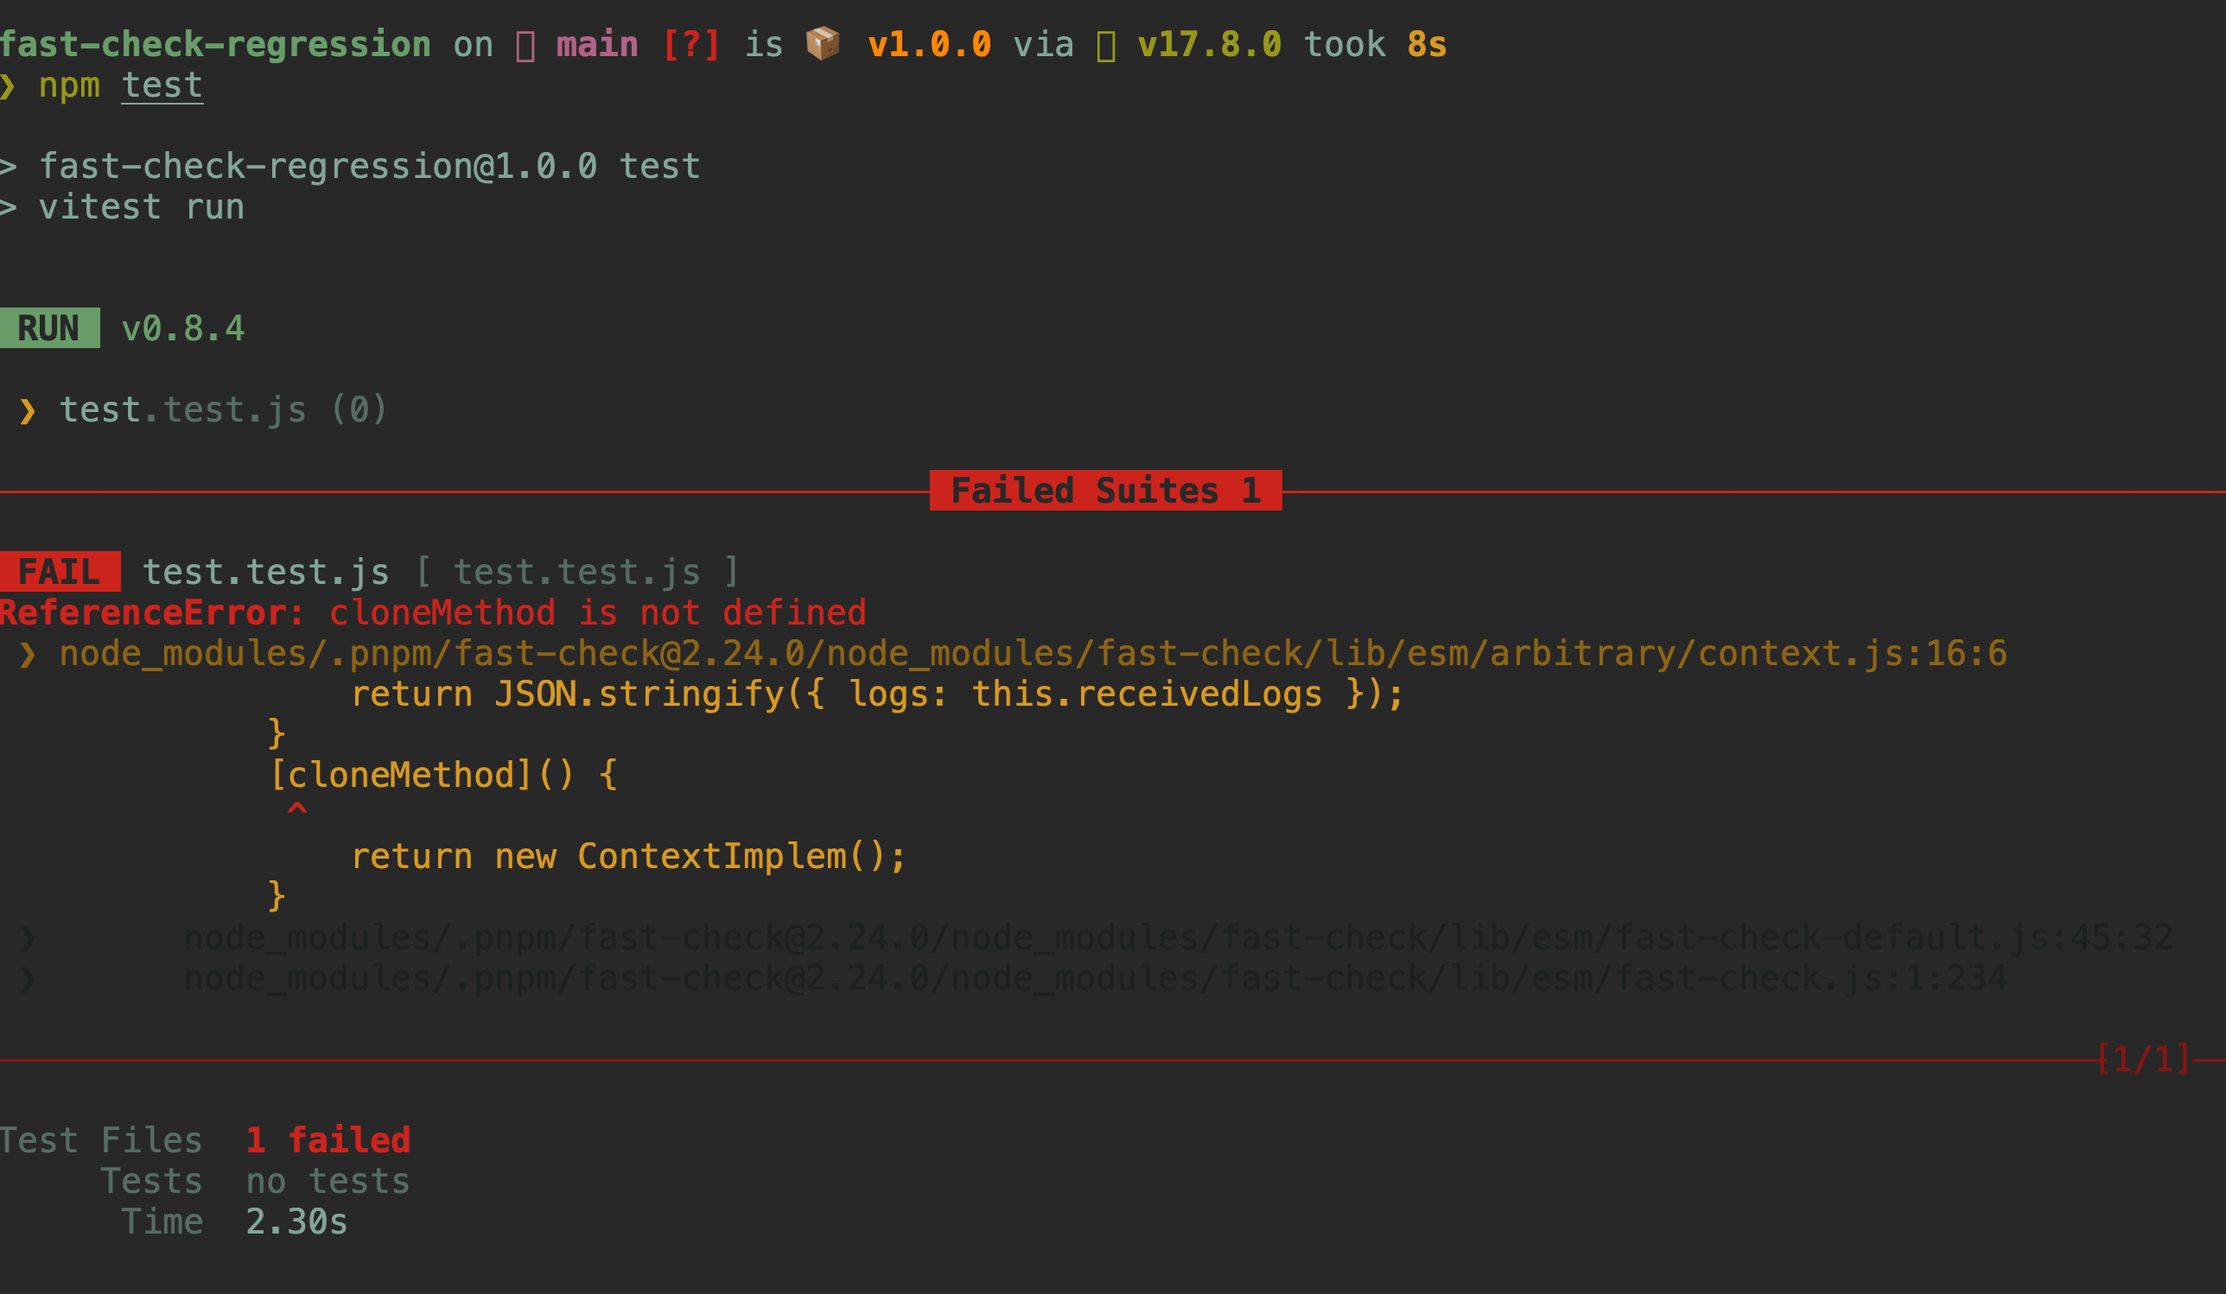
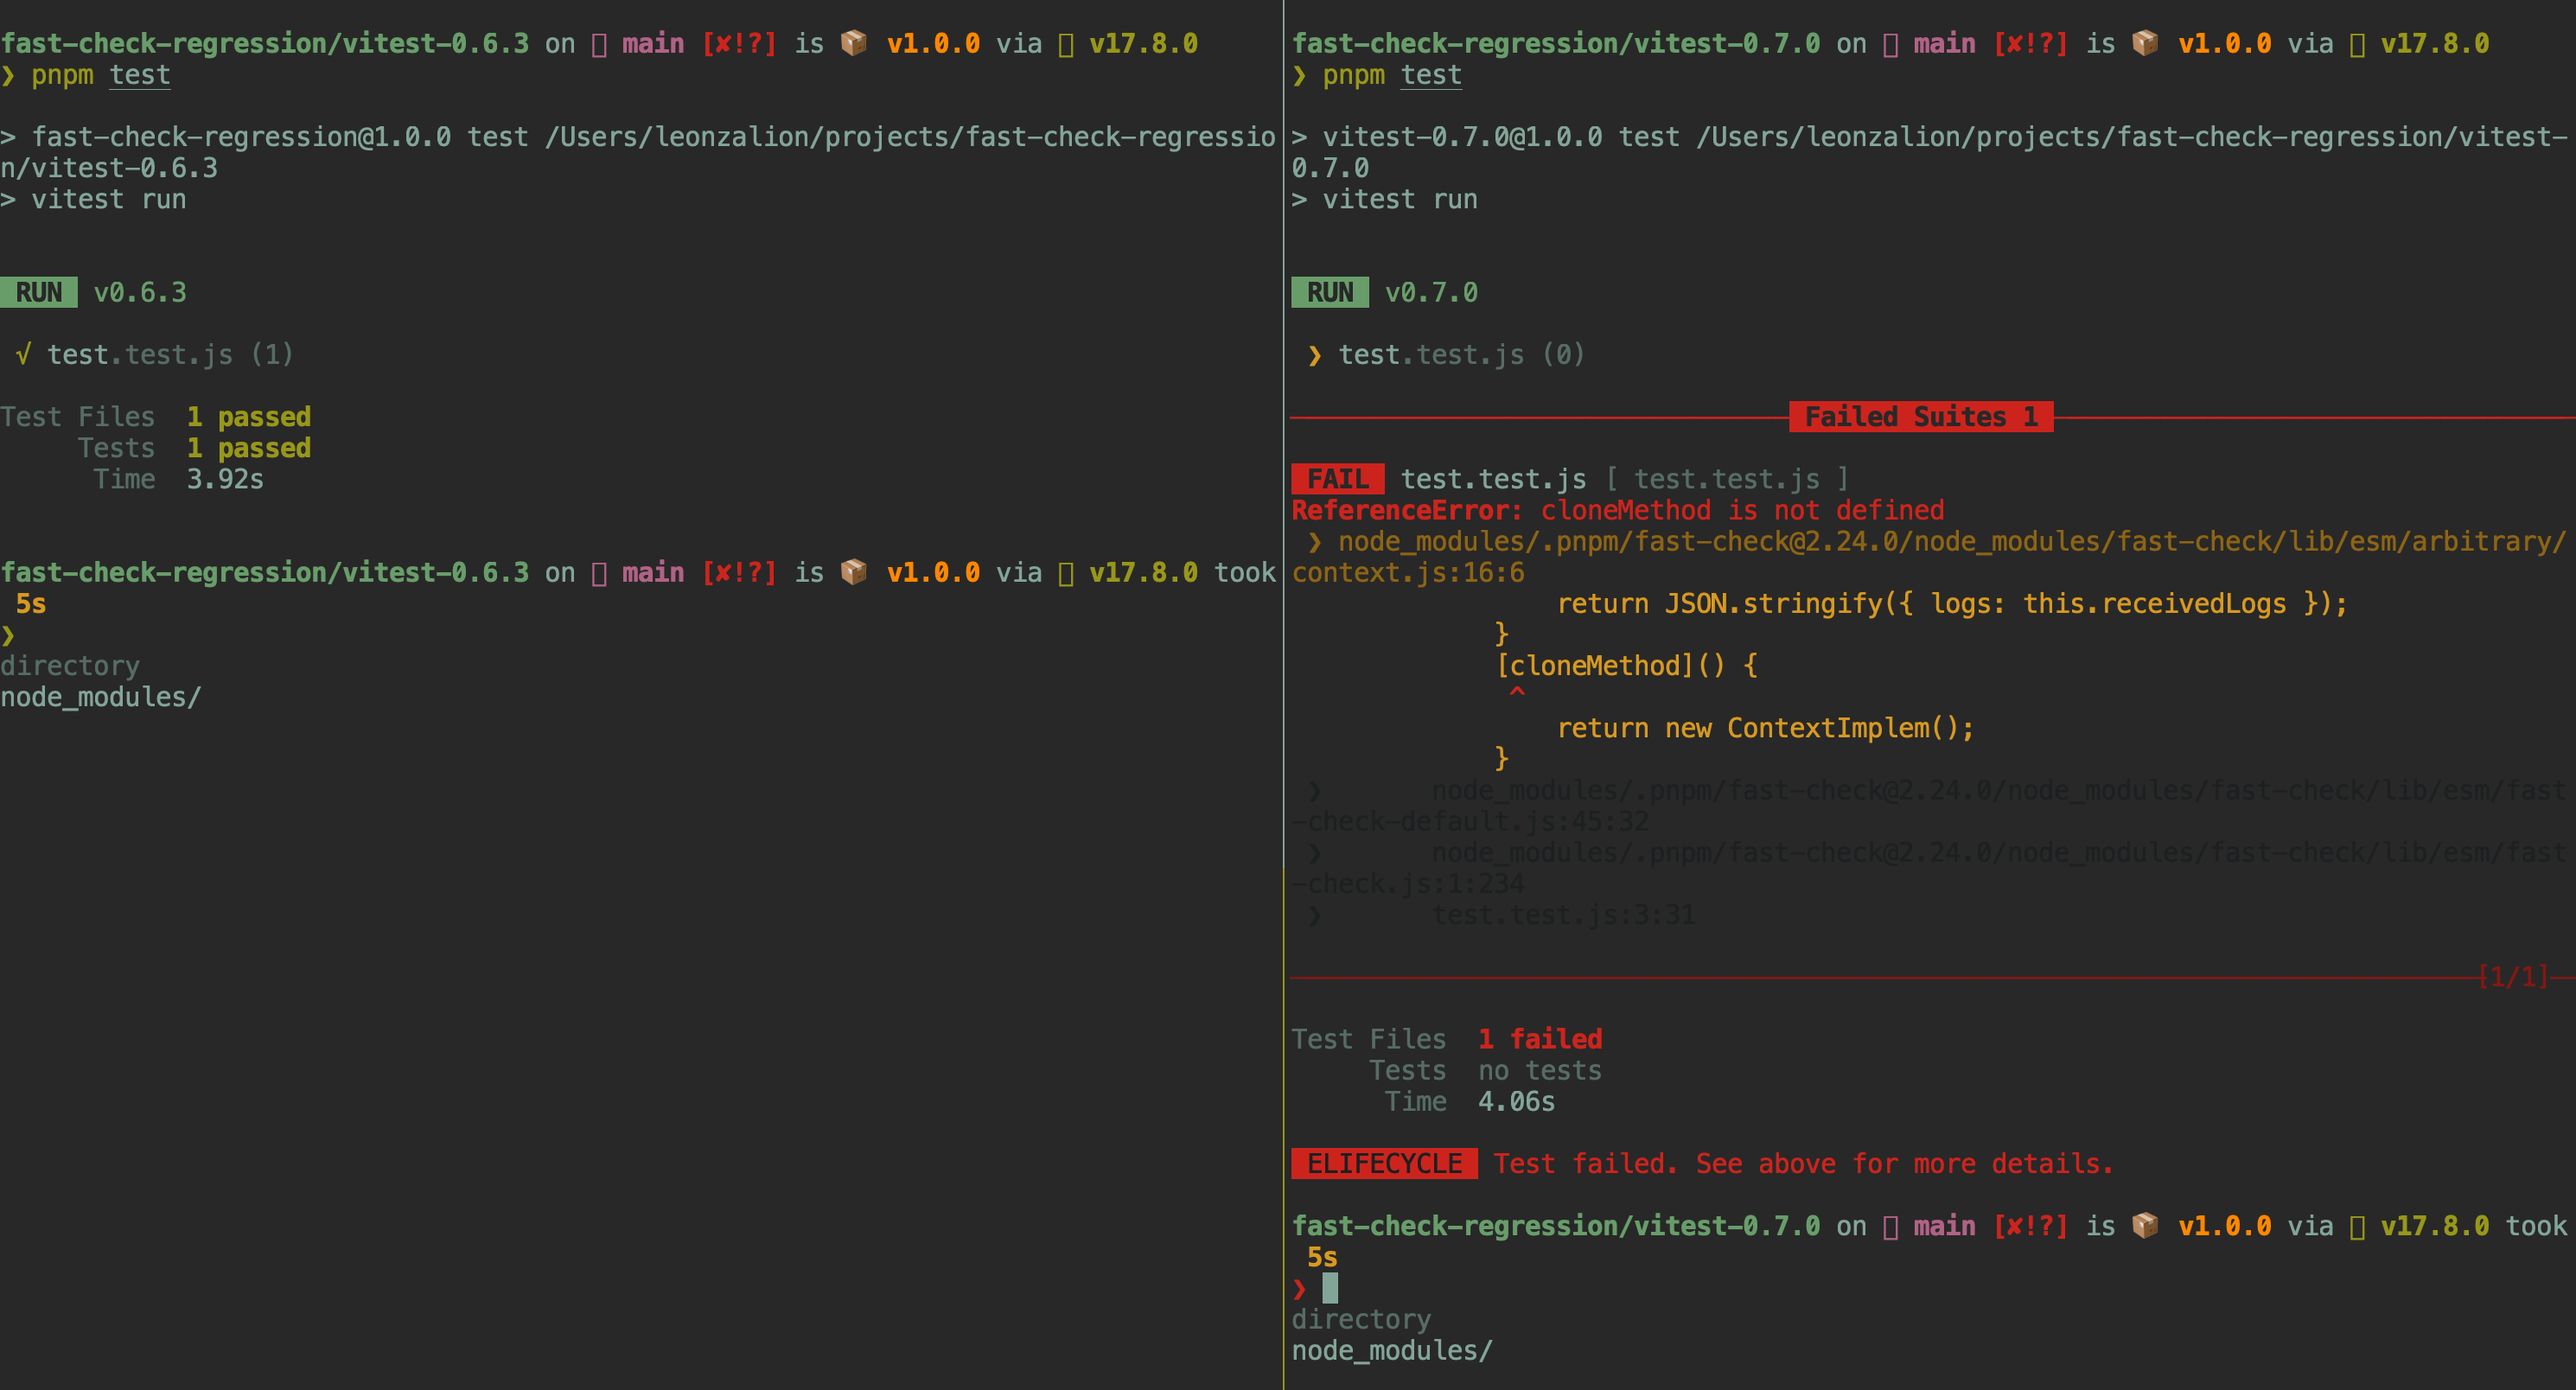
fix

diff --git a/vitest-0.6.3/test.test.js b/vitest-0.6.3/test.test.js
@@ -1,0 +1,13 @@
+import { test } from 'vitest';
+import * as fc from 'fast-check';
+
+test('test', () => {
+	// Code under test
+	const contains = (text, pattern) => text.indexOf(pattern) >= 0;
+
+	fc.assert(fc.property(fc.string(), text => contains(text, text)));
+	fc.assert(fc.property(fc.string(), fc.string(), fc.string(), (a,b,c) => {
+		// Alternatively: no return statement and direct usage of expect or assert
+		return contains(a+b+c, b);
+	}));
+});

diff --git a/vitest-0.7.0/test.test.js b/vitest-0.7.0/test.test.js
@@ -1,0 +1,13 @@
+import { test } from 'vitest';
+import * as fc from 'fast-check';
+
+test('test', () => {
+	// Code under test
+	const contains = (text, pattern) => text.indexOf(pattern) >= 0;
+
+	fc.assert(fc.property(fc.string(), text => contains(text, text)));
+	fc.assert(fc.property(fc.string(), fc.string(), fc.string(), (a,b,c) => {
+		// Alternatively: no return statement and direct usage of expect or assert
+		return contains(a+b+c, b);
+	}));
+});

diff --git a/readme.md b/readme.md
@@ -1,5 +1,5 @@
 # fast-check Regression
 
-Running `npm test` gives following error:
+Running `npm test` in `vitest-0.6.3/` vs `vitest-0.7.0/`:
 
 ![error.png](error.png)
